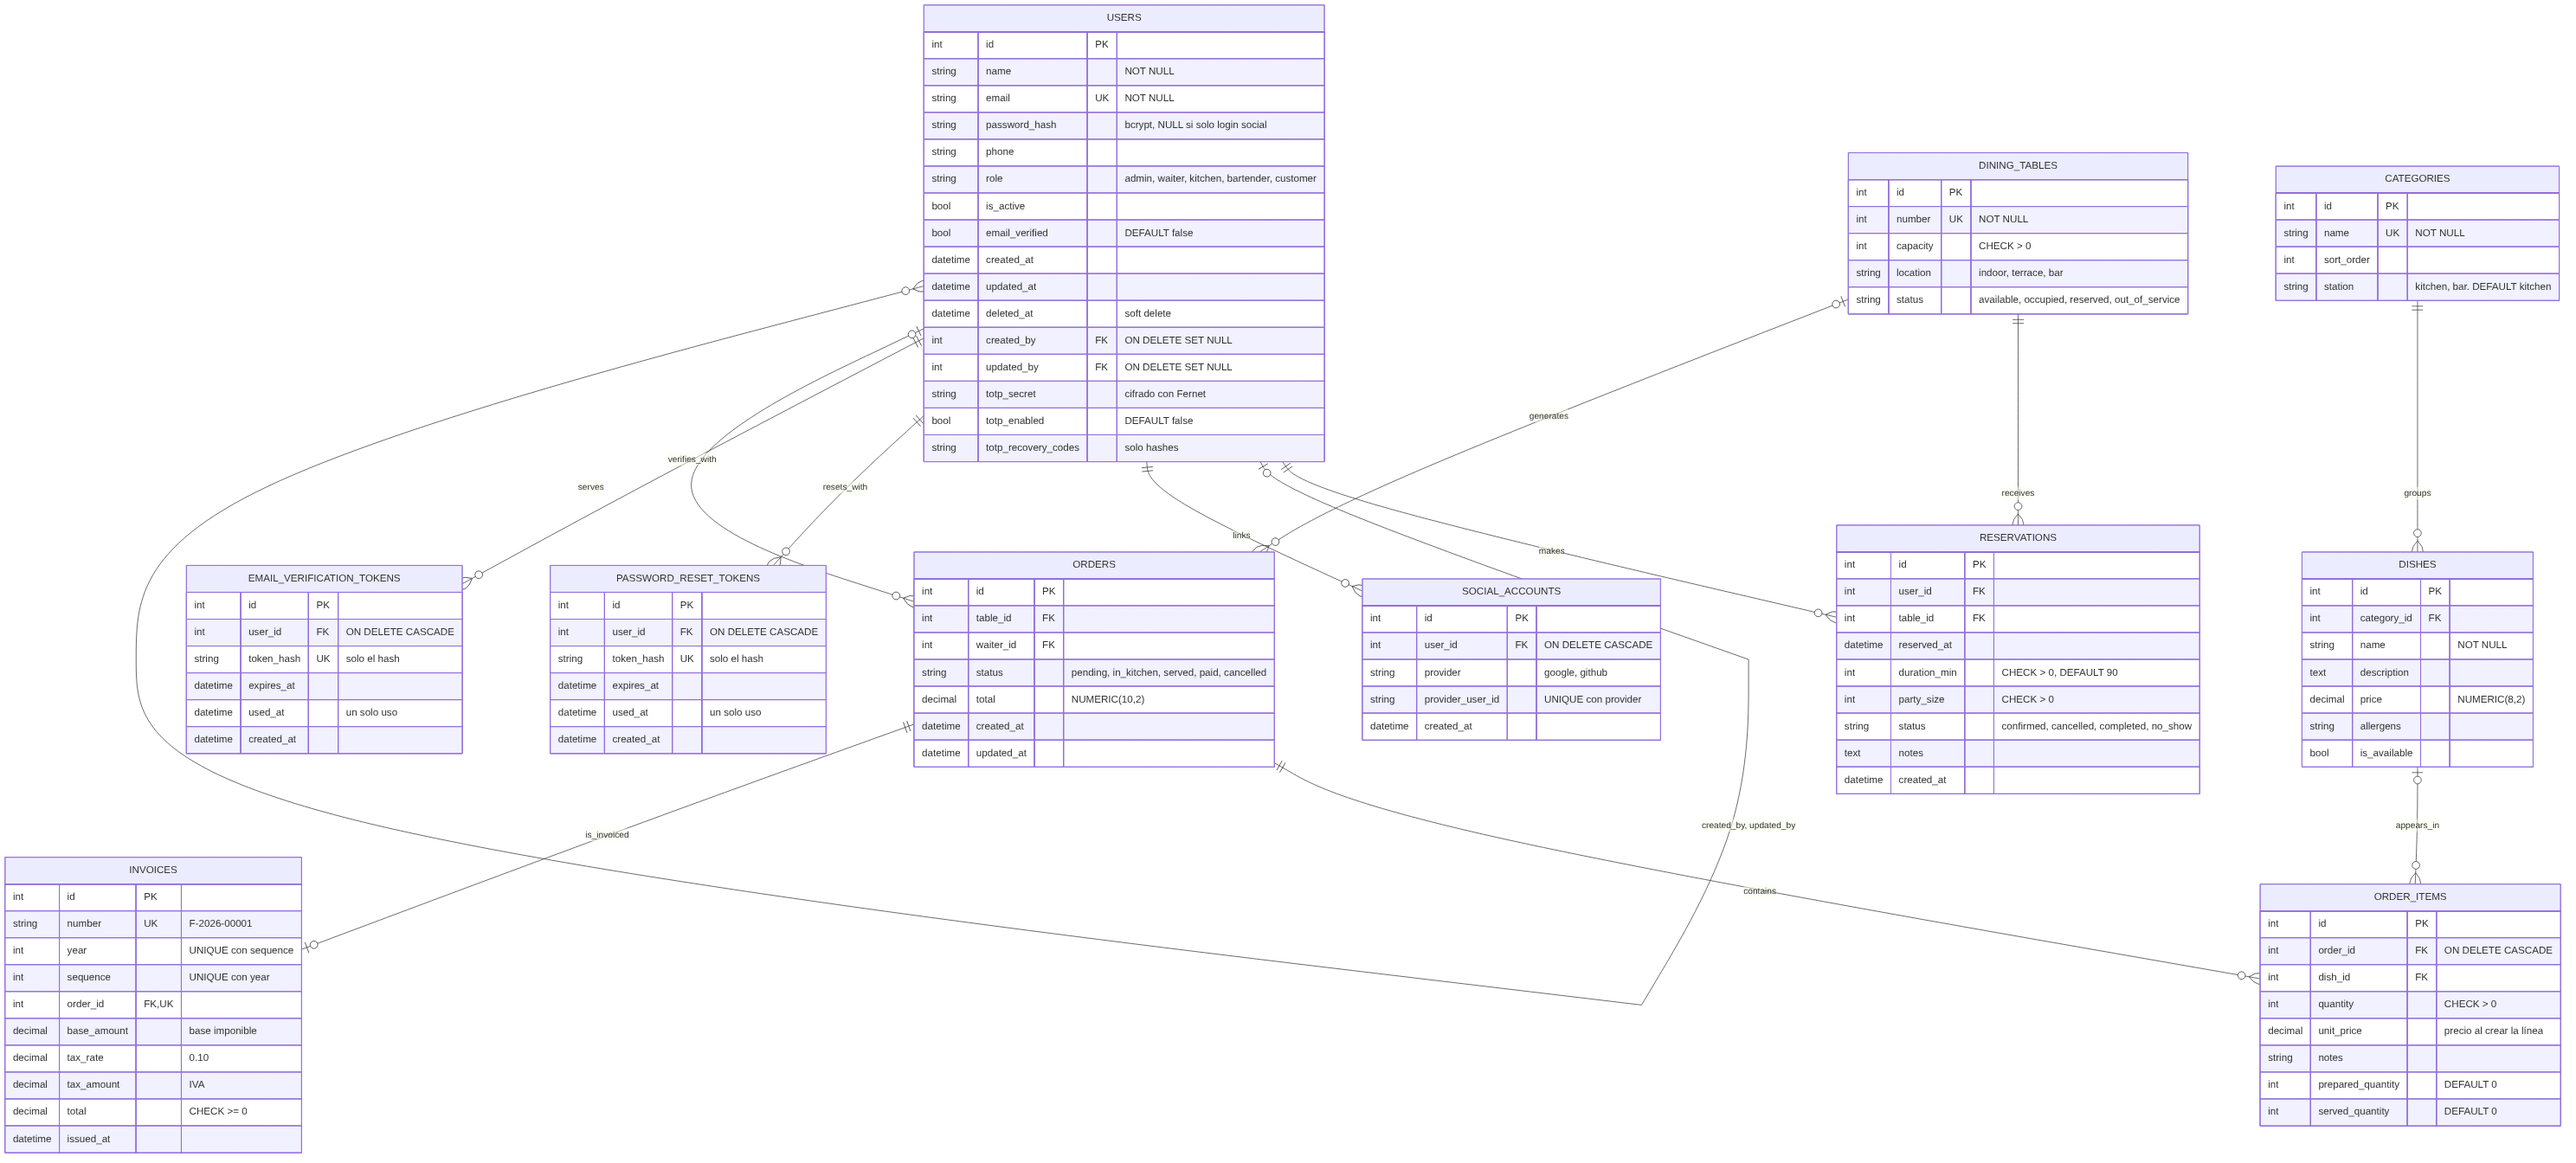
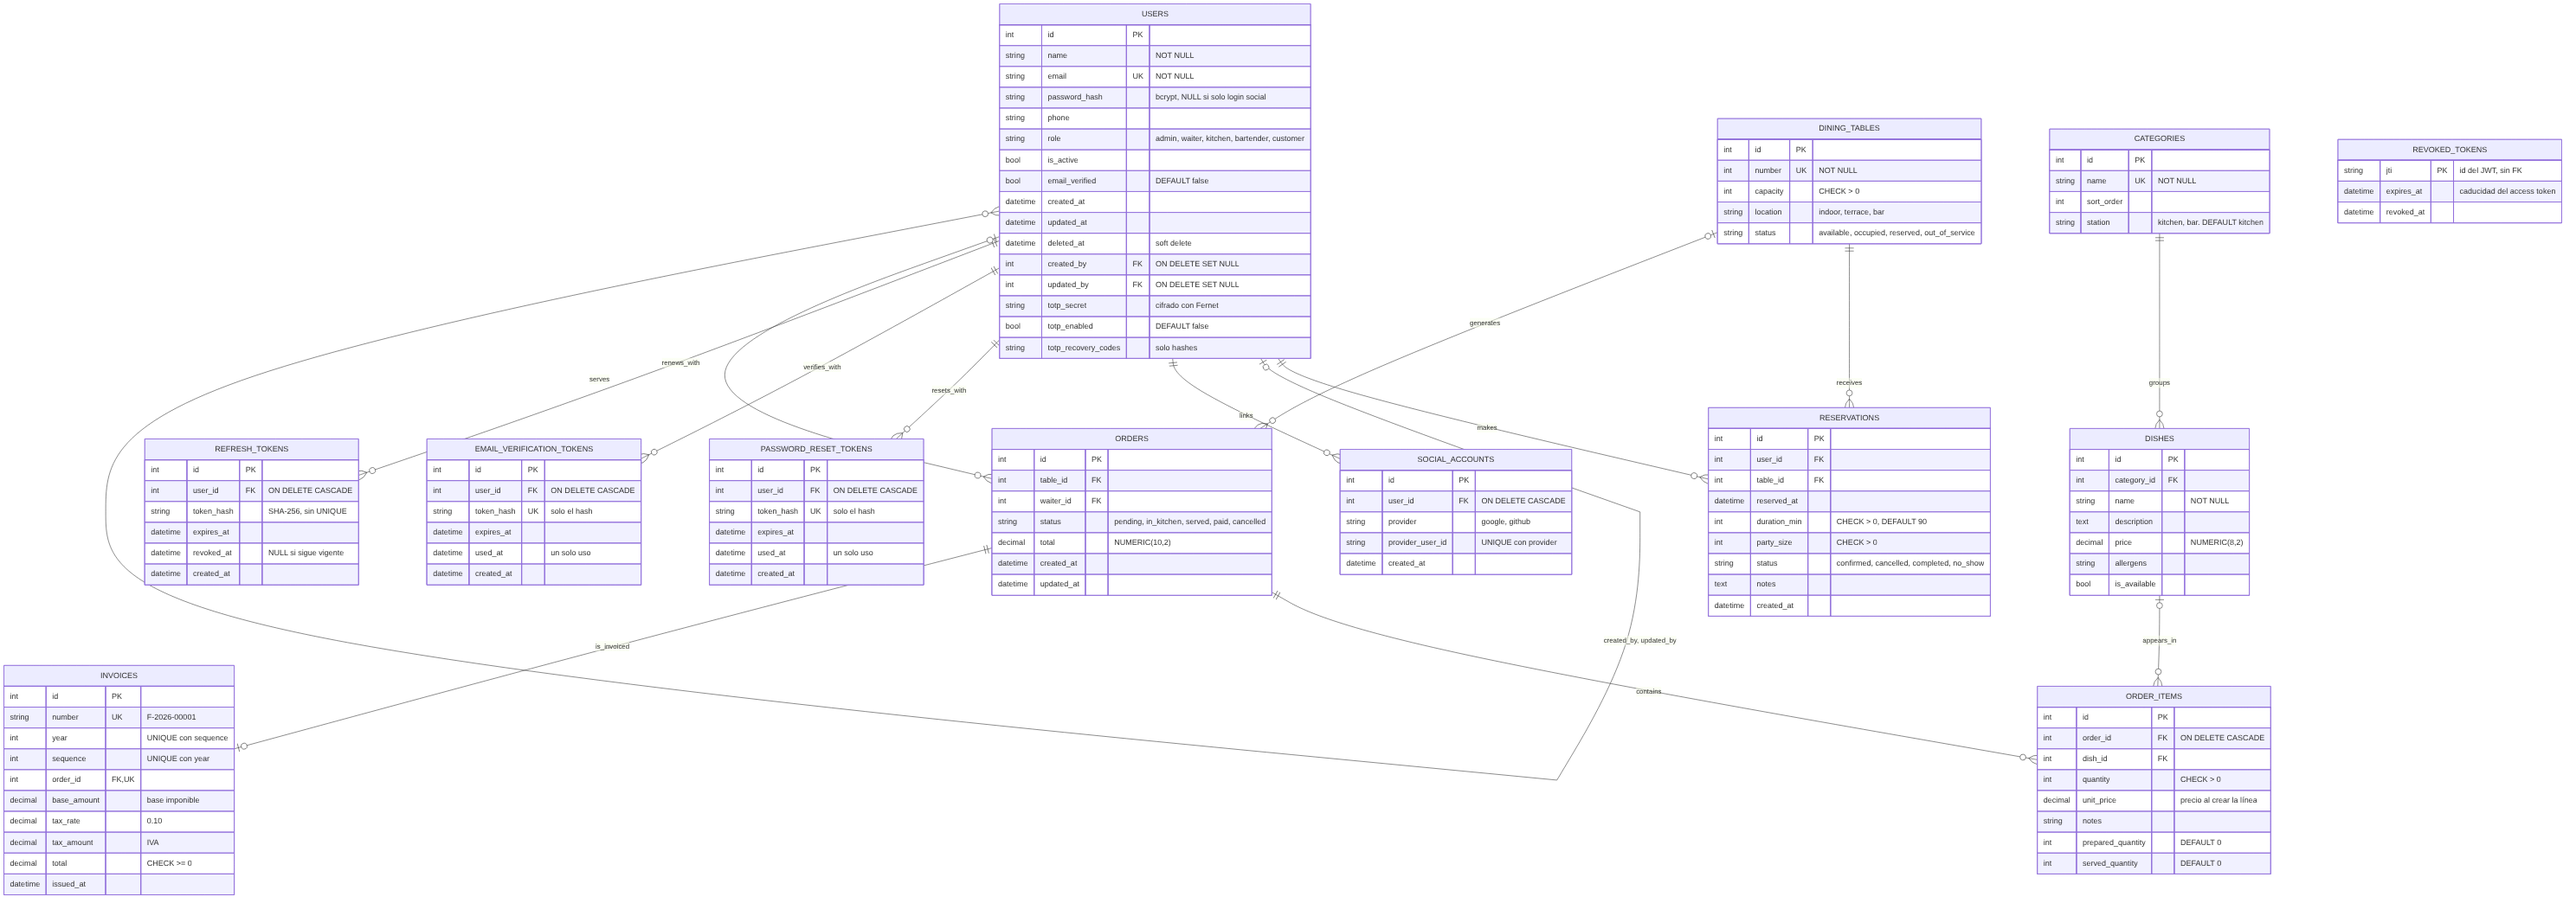
docs(er): diagrama ER a 13 tablas con refresh_tokens y revoked_tokens… (#163)

diff --git a/docs/er.md b/docs/er.md
@@ -1,8 +1,9 @@
 # RestoAPI · Diagrama entidad-relación final
 
 Diagrama ER del plan del proyecto (§3.3) actualizado al final de P3, con las tablas tal como
-están en los modelos SQLAlchemy de `app/models/` y las migraciones de Alembic hasta la `0010`
-(`migrations/versions/`). Imagen exportada: [`er-diagram.png`](er-diagram.png).
+están en los modelos SQLAlchemy de `app/models/` y las migraciones de Alembic hasta la
+`c50fc2ad47e1`, la que sigue a la `0010` (`migrations/versions/`). Imagen exportada:
+[`er-diagram.png`](er-diagram.png).
 
 ```mermaid
 erDiagram
@@ -11,6 +12,7 @@ erDiagram
     USERS ||--o{ SOCIAL_ACCOUNTS : links
     USERS ||--o{ PASSWORD_RESET_TOKENS : resets_with
     USERS ||--o{ EMAIL_VERIFICATION_TOKENS : verifies_with
+    USERS ||--o{ REFRESH_TOKENS : renews_with
     DINING_TABLES ||--o{ RESERVATIONS : receives
     DINING_TABLES |o--o{ ORDERS : generates
     USERS |o--o{ ORDERS : serves
@@ -62,6 +64,21 @@ erDiagram
         datetime expires_at
         datetime used_at "un solo uso"
         datetime created_at
+    }
+
+    REFRESH_TOKENS {
+        int id PK
+        int user_id FK "ON DELETE CASCADE"
+        string token_hash "SHA-256, sin UNIQUE"
+        datetime expires_at
+        datetime revoked_at "NULL si sigue vigente"
+        datetime created_at
+    }
+
+    REVOKED_TOKENS {
+        string jti PK "id del JWT, sin FK"
+        datetime expires_at "caducidad del access token"
+        datetime revoked_at
     }
 
     DINING_TABLES {
@@ -138,7 +155,7 @@ erDiagram
 
 ## Cambios respecto al plan
 
-El plan tenía 9 tablas; el modelo final tiene **11**: se quita `roles` y se añaden tres
+El plan tenía 9 tablas; el modelo final tiene **13**: se quita `roles` y se añaden cinco
 tablas de autenticación.
 
 | Tabla | Plan (§3.1) | Final | Motivo |
@@ -148,6 +165,8 @@ tablas de autenticación.
 | `social_accounts` | No estaba | Nueva (HU-38) | Vincula un usuario con su cuenta de Google o GitHub. `UNIQUE (provider, provider_user_id)` |
 | `password_reset_tokens` | No estaba | Nueva (HU-52) | Enlace de un solo uso para crear o recuperar la contraseña. Solo se guarda el hash del token |
 | `email_verification_tokens` | No estaba | Nueva (HU-33) | Enlace de un solo uso para verificar el email. Solo se guarda el hash del token |
+| `refresh_tokens` | No estaba | Nueva (HU-30) | Token para renovar la sesión (R-05, R-06). Solo se guarda su hash SHA-256; al usarlo se rota y se marca `revoked_at` |
+| `revoked_tokens` | No estaba | Nueva (HU-30) | `jti` de los access token invalidados antes de caducar con el logout (R-07). No tiene FK: el access token no se guarda |
 | `categories` | Sin `station` | Añade `station` (`kitchen` o `bar`, por defecto `kitchen`) | Decide a qué rol llega cada línea de un pedido (R-14). Sin `CHECK` en la BD: los valores se validan en la API |
 | `order_items` | Sin unidades preparadas ni servidas | Añade `prepared_quantity` y `served_quantity` (por defecto 0) | Unidades ya preparadas y ya servidas de cada línea (tarea #117) |
 | `invoices` | `subtotal`, `tax`, `payment_method` | `base_amount`, `tax_rate`, `tax_amount`, `year`, `sequence`; sin `payment_method` | Nombres más claros, IVA guardado por si cambia el tipo, numeración que se reinicia cada año (`UNIQUE (year, sequence)`). El método de pago no entró en la HU-14 |
@@ -179,6 +198,11 @@ las BD creadas antes de Alembic, está en [`deploy.md`](deploy.md) (sección 8).
 | `0008_tokens_para_crear_contrasena` | Tabla `password_reset_tokens` | HU-52 |
 | `0009_verificacion_email` | `users.email_verified` (las cuentas existentes quedan verificadas) y tabla `email_verification_tokens` | HU-33 |
 | `0010_verificacion_en_dos_pasos` | `users.totp_secret`, `totp_enabled` y `totp_recovery_codes` | HU-37 |
+| `c50fc2ad47e1_add_refresh_tokens_and_revoked_tokens` | Tablas `refresh_tokens` y `revoked_tokens` | HU-30 |
+
+La última migración no lleva número porque se generó con `alembic revision --autogenerate`. Cuelga
+de la `0010`, así que sigue habiendo una sola cabeza; la siguiente tiene que usar
+`down_revision = 'c50fc2ad47e1'`.
 
 `app/main.py` todavía llama a `Base.metadata.create_all` al arrancar. Solo crea las tablas que
 faltan y no modifica las existentes, así que cualquier cambio en una tabla ya creada necesita su
@@ -198,10 +222,13 @@ migración.
 - **Límite de intentos de login (HU-31, R-10):** tampoco usa tablas. Los contadores están en
   memoria y se pierden al reiniciar la API.
 - **Secretos de seguridad (HU-37, HU-33, HU-52):** `users.totp_secret` se guarda cifrado con
-  Fernet, los códigos de recuperación y los tokens de las dos tablas de tokens solo como hash.
-  Nunca se guarda el valor original.
+  Fernet, los códigos de recuperación y los tokens de `password_reset_tokens`,
+  `email_verification_tokens` y `refresh_tokens` solo como hash. Nunca se guarda el valor original.
+- **Access token (R-07):** el JWT no se guarda. Solo el `jti` entra en `revoked_tokens` al cerrar
+  sesión, y `expires_at` sirve para purgar los que ya habrían caducado.
 - **Borrado de usuarios (R-04):** un usuario nunca se borra físicamente. Las FK de
-  `social_accounts` y de las dos tablas de tokens llevan `ON DELETE CASCADE` por si se limpia la
+  `social_accounts`, `password_reset_tokens`, `email_verification_tokens` y `refresh_tokens`
+  llevan `ON DELETE CASCADE` por si se limpia la
   BD a mano, y `created_by` y `updated_by` llevan `ON DELETE SET NULL`.
 - **Regenerar la imagen** si cambia el modelo: pegar el bloque Mermaid en
   [mermaid.live](https://mermaid.live), exportar como PNG y guardarlo en `docs/er-diagram.png`.
